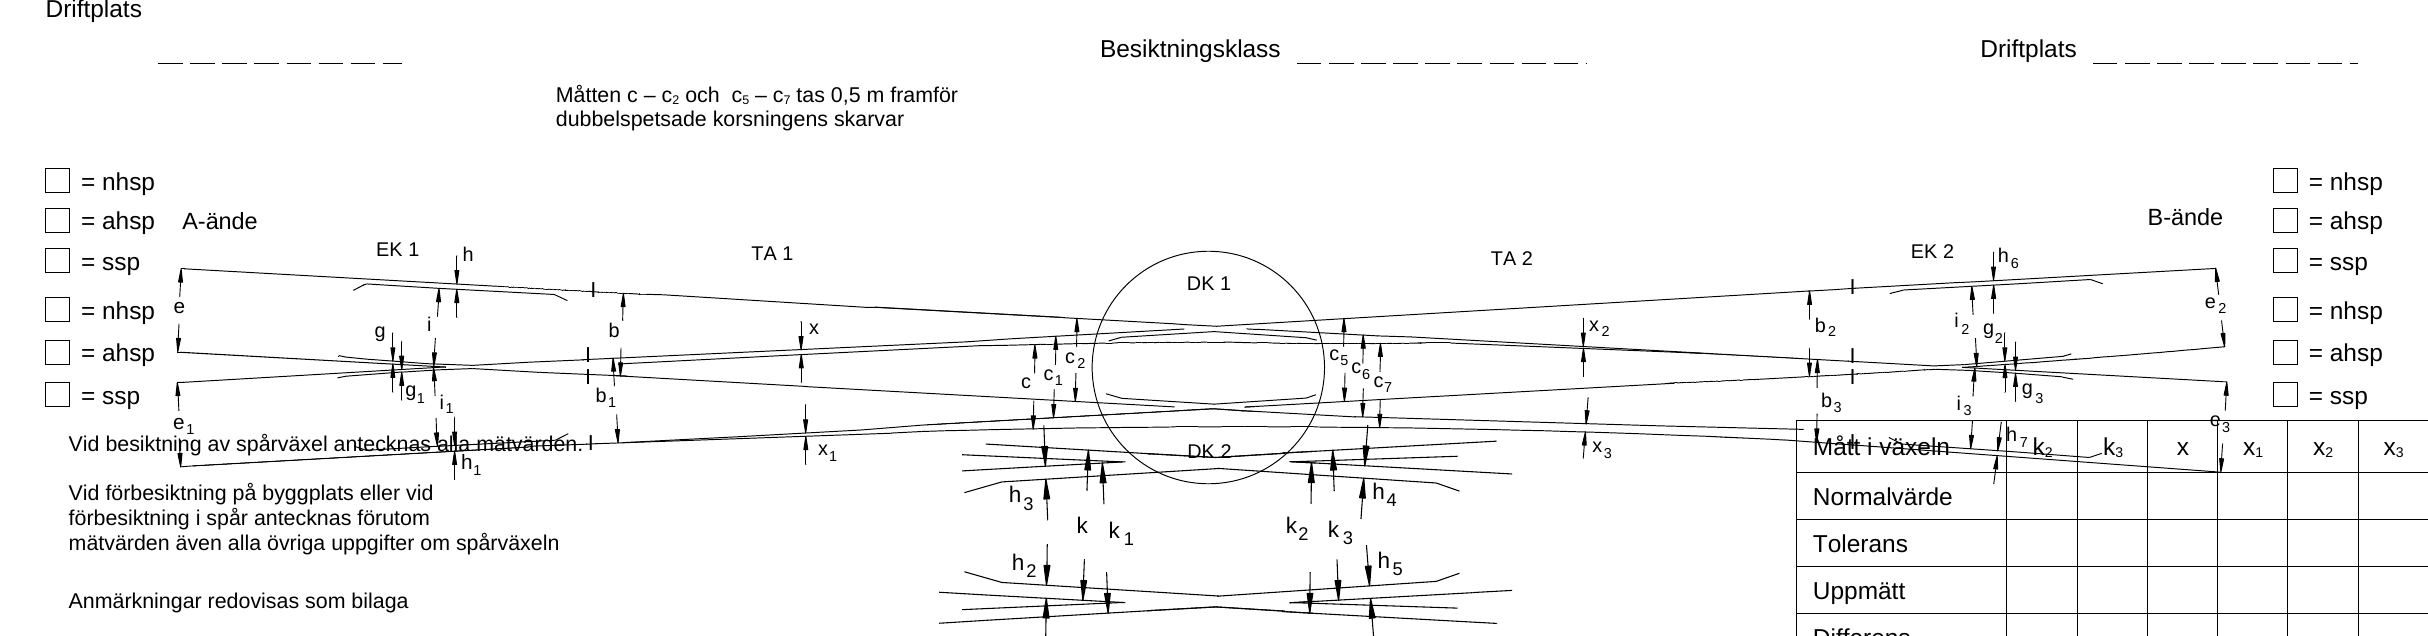
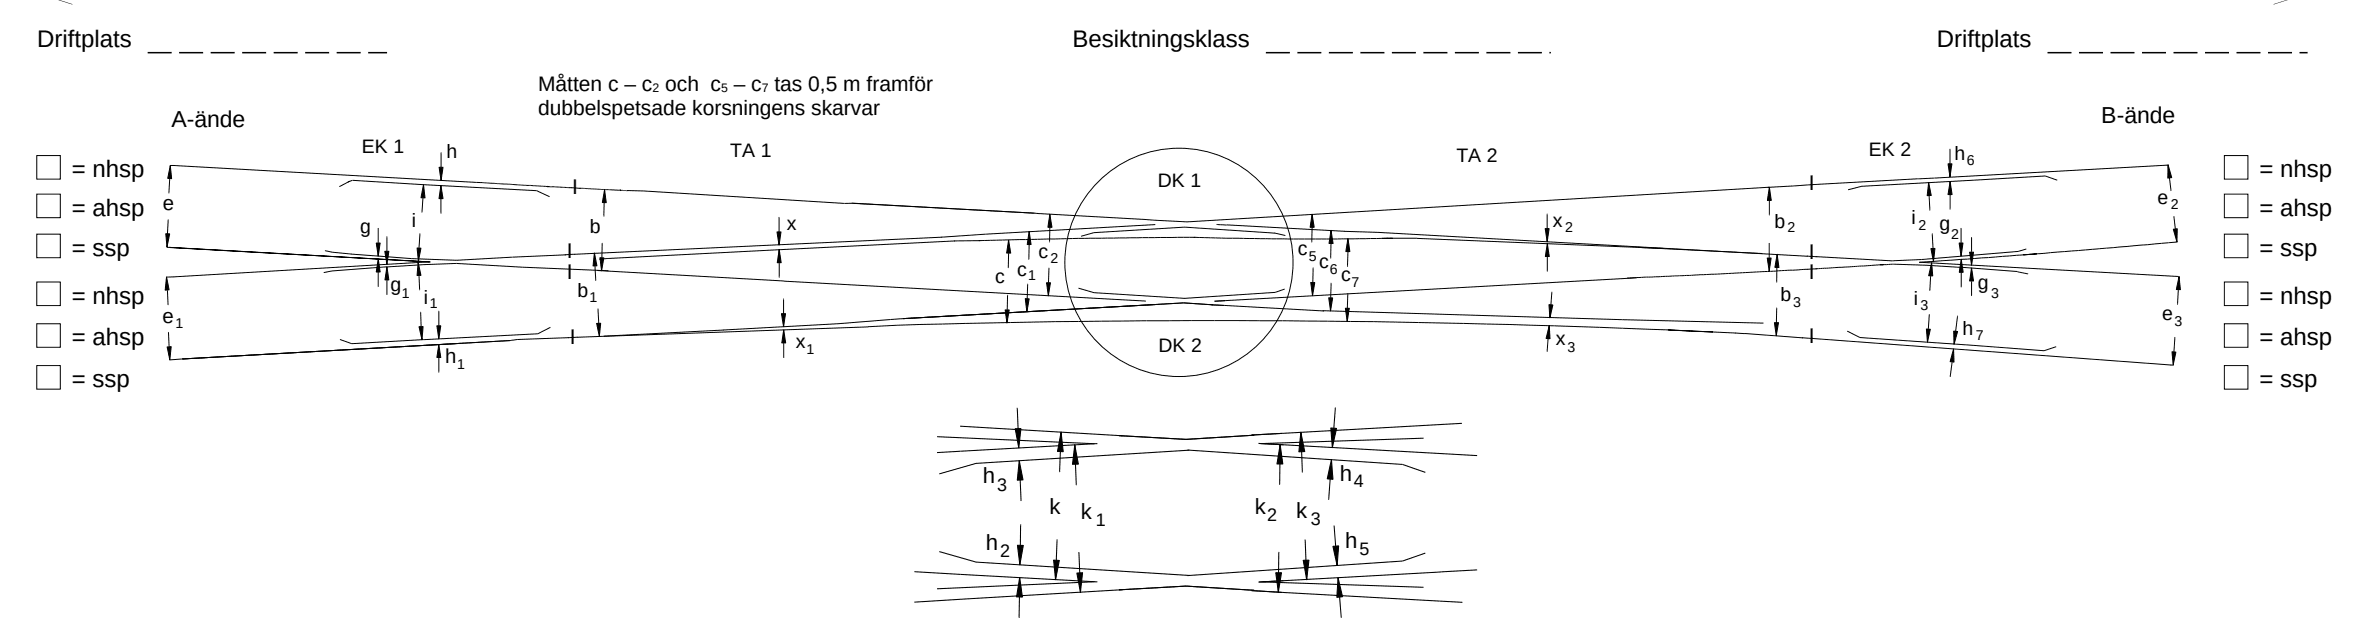
Växelbilderna i appen görs om ur de rättade mallarna
Skarpare SPK-bild, ingen tabell- eller textrest och inget avklippt.

Claude-Session: https://claude.ai/code/session_01NTU5LCbJAD1d1A5ZWdDGEp

diff --git a/sw.js b/sw.js
@@ -1,5 +1,5 @@
 // Gör appen körbar offline. Höj VERSION när filerna ändras.
-const VERSION = 'v87';
+const VERSION = 'v88';
 const FILES = [
   './',
   'index.html',
